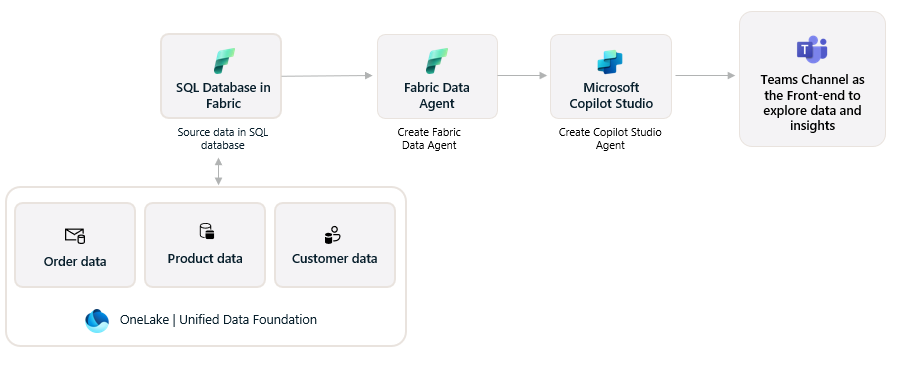
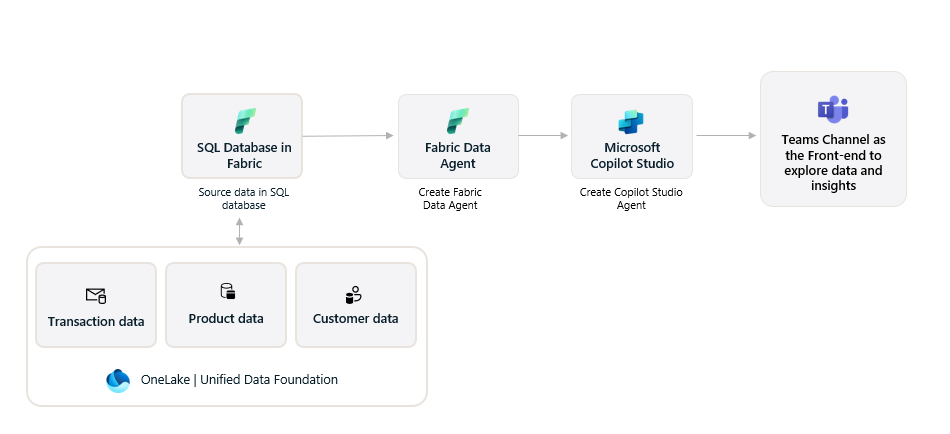
update technical architecture

diff --git a/documents/TechnicalArchitecture.md b/documents/TechnicalArchitecture.md
@@ -1,16 +1,38 @@
 ## Technical Architecture
 
-This section outlines the components and interactions that powers the unified data analysis platform. The architecture ingests customer information, product details and order history and surfaces insights via an interactive web experience.
+This section outlines the components and interactions that powers the unified data analysis platform. The architecture ingests customer information, product details and transaction history and surfaces insights via an interactive web experience.
+
+#### Option 1: Architecture with Microsoft Fabric and Microsoft Copilot Studio:
+
+![image](./Images/ReadMe/solution-architecture-cps.png)
+
+### Customer / product / transaction details
+SQL scripts for the customer, product and transaction details are the primary input into the system. These tables are uploaded and stored for downstream insight generation.
+
+### SQL Database in Fabric  
+Stores uploaded customer information, product details and transaction history tables. Serves as the primary knowledge source to surface insights in the Fabric Data Agent.
+
+### Fabric Data Agent 
+Provides large language model (LLM) capabilities to support naltural language querying. 
+
+### Microsoft Copilot Studio
+Fabric Data Agent is connected to an agent in Microsoft Copilot Studio and surfaced as a channel in Microsoft Teams. 
+
+### Microsoft Teams
+Users can explore call insights, visualize trends, ask questions in natural language, directly inside Microsoft Teams. 
+
+
+#### Option 2: Architecture with Microsoft Fabric and Microsoft Foundry:
 
 ![image](./Images/ReadMe/solution-architecture.png)
 
-### Customer / product / order details
-SQL scripts for the customer, product and order details are the primary input into the system. These tables are uploaded and stored for downstream insight generation.
+### Customer / product / transaction details
+SQL scripts for the customer, product and transaction details are the primary input into the system. These tables are uploaded and stored for downstream insight generation.
 
 ### SQL Database in Fabric  
-Stores uploaded customer information, product details and order history tables. Serves as the primary knowledge source to surface insights in the web application. And persists chat history and session context for the web interface. Enables retrieval of past interactions.
+Stores uploaded customer information, product details and transaction history tables. Serves as the primary knowledge source to surface insights in the web application. And persists chat history and session context for the web interface. Enables retrieval of past interactions.
 
-### Azure OpenAI Service  
+### Microsoft Foundry
 Provides large language model (LLM) capabilities to support natural language querying.
 
 ### Agent Framework  
